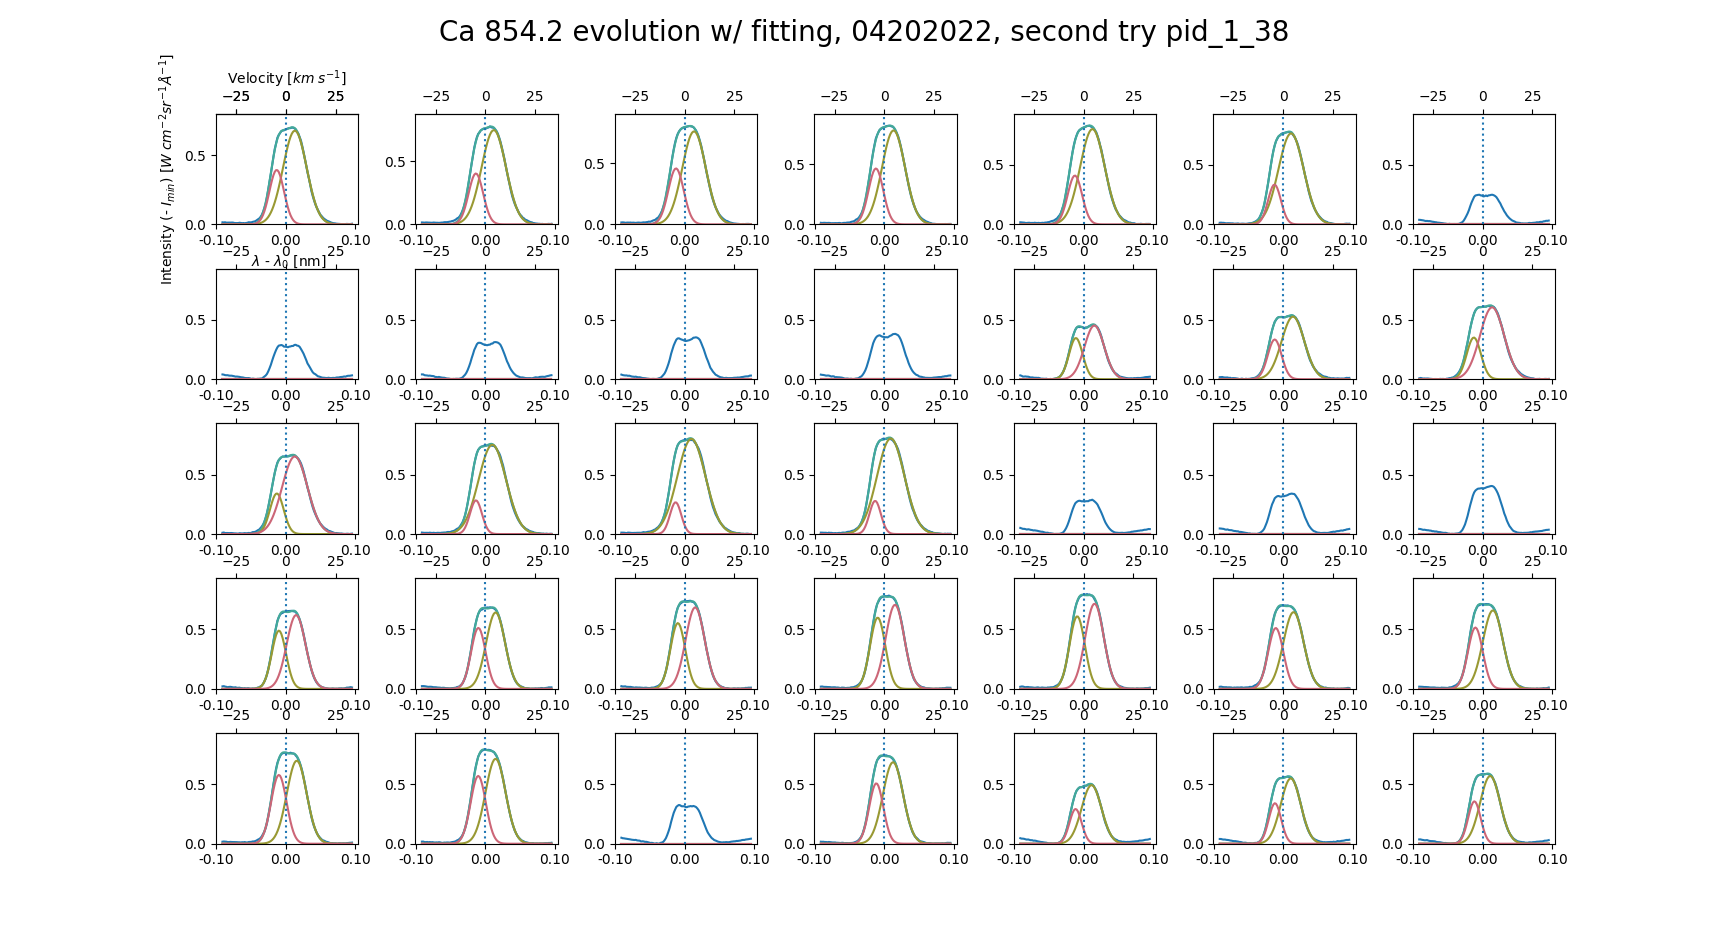
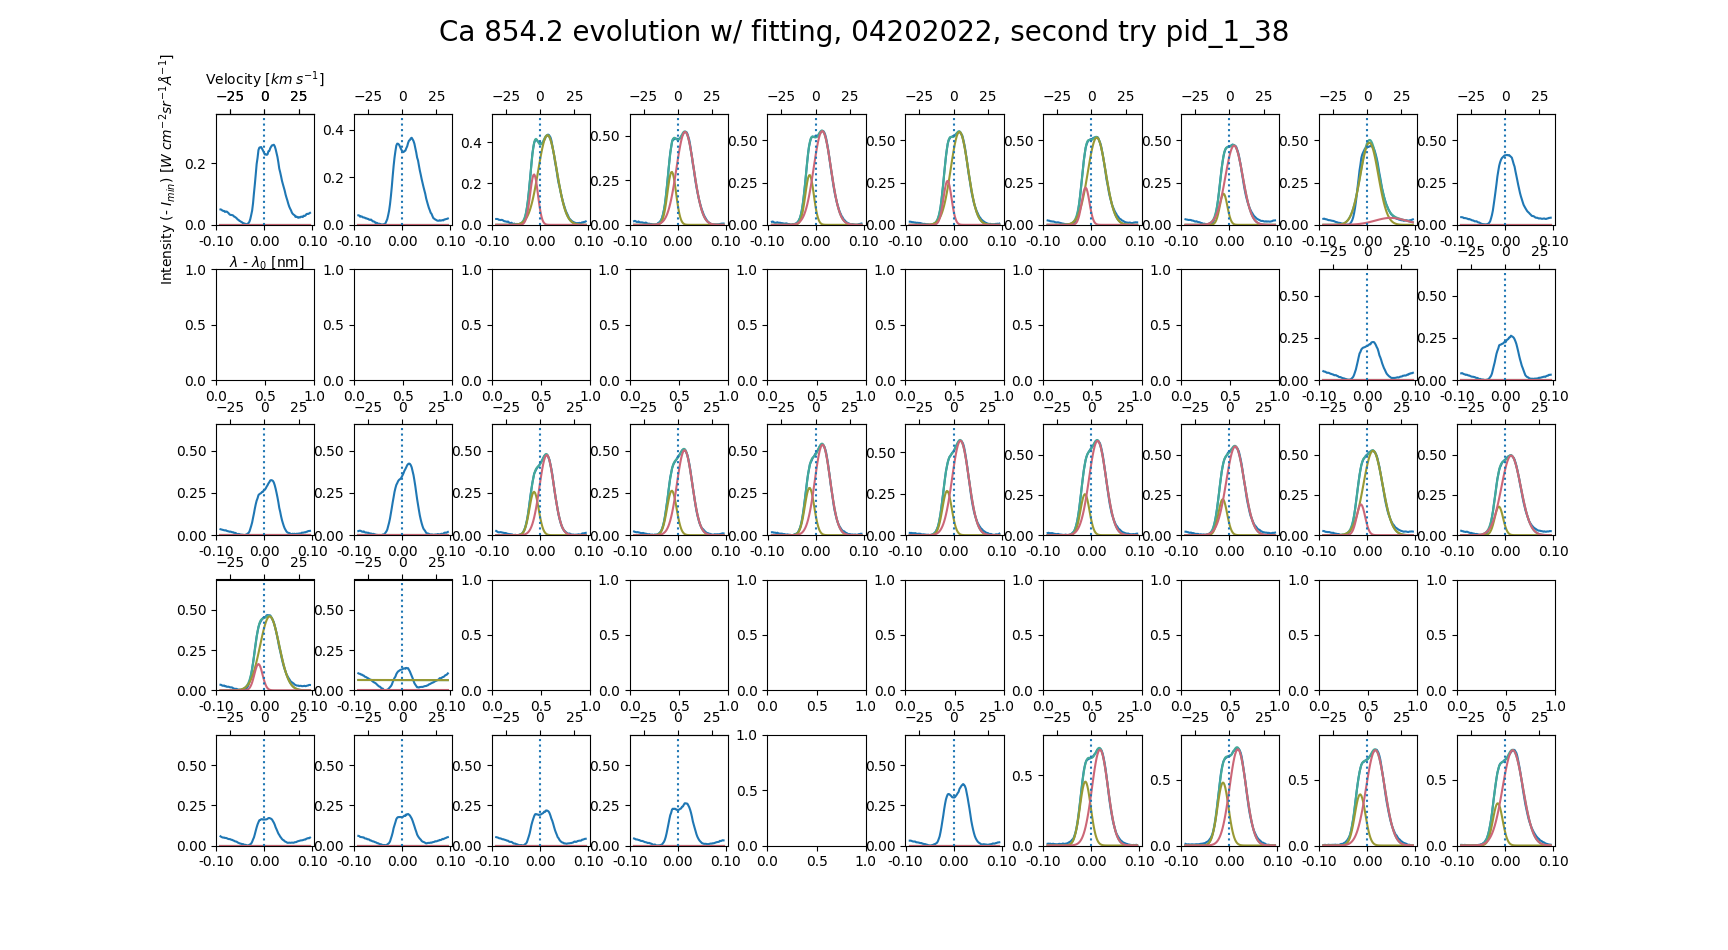
plotting routines and mdoeling for caii 8542 in pid_1_38

diff --git a/dkistpkg_ct.py b/dkistpkg_ct.py
@@ -829,7 +829,7 @@ def fittingroutines(bkgd_subtract_flaretime,dispersion_range,
     fits_2g = []
     fits_2gneg = []
     
-    
+    l=0
     for i in range(nimg):
         print(i)
         selwl = dispersion_range[line_low:line_high]
@@ -856,7 +856,7 @@ def fittingroutines(bkgd_subtract_flaretime,dispersion_range,
     return fits_1g, fits_2g, fits_2gneg
 
 def pltfitresults(bkgd_subtract_flaretime,dispersion_range,double_gaussian,
-                  gaussian,times_raster1,muted,
+                  gaussian,times,muted,
                   line_low,line_high,fits_1g,fits_2g,fits_2gneg,
                   pid='pid_1_84',
                   date = '08092022',line = 'Ca II H',nimg = 7,
@@ -906,7 +906,25 @@ def pltfitresults(bkgd_subtract_flaretime,dispersion_range,double_gaussian,
         fit1g = fits_1g[i][0]
         fit2g = fits_2g[i][0]
         #fit2gneg = fits_2gneg[i][0]
+        
+        if i > 0 and i % (nrow*ncol) == 0:
+            secaxx = ax.flatten()[0].secondary_xaxis('top', functions=(veltrans,wltrans))
+            secaxx.set_xlabel(r'Velocity $[km\; s^{-1}]$')
+            ax.flatten()[0].set_xlabel(r' $\lambda$ - $\lambda_0$ [nm]')
+            ax.flatten()[0].set_ylabel(r'Intensity (- $I_{min}$) $[W\; cm^{-2} sr^{-1} \AA^{-1}]$')
+
+
+            
+            #plt.subplots_adjust(wspace=0.4,hspace=1.0)
+            plt.tight_layout(pad = 4)
+            fig.savefig('/Users/coletamburri/Desktop/DKIST_analysis_package/'+\
+                        pid+'/fits'+date+note+'_endatstep_'+str(i-1)+'.png')
+            fig, ax = plt.subplots(nrow,ncol,figsize=(30,15))
+            fig.suptitle(line+' evolution w/ fitting, '+date+note,fontsize=20)
+            
+            
         if len(fit2g) == 6:
+            l = i % (nrow*ncol)
             gaussfity = gaussian(selwl,fit1g[0],fit1g[1],fit1g[2])
             gauss2fity = double_gaussian(selwl,fit2g[0],fit2g[1],fit2g[2],\
                                          fit2g[3],fit2g[4],fit2g[5])
@@ -916,18 +934,20 @@ def pltfitresults(bkgd_subtract_flaretime,dispersion_range,double_gaussian,
             #gauss2negfity = double_gaussian(selwl,fit2gneg[0],fit2gneg[1],\
                                             # fit2gneg[2],fit2gneg[3],fit2gneg[4],
                                             # fit2gneg[5])
-        
-            ax.flatten()[i].plot(selwlshift,sel,label='data')
+            
+
+            ax.flatten()[l].plot(selwlshift,sel,label='data')
             #ax.flatten()[i].plot(selwlshift,gaussfity,label='G1')
-            ax.flatten()[i].plot(selwlshift,gauss2fity,label='G2',color=muted[2])
-            ax.flatten()[i].plot(selwlshift,comp1fity,label='G2,C1',color=muted[4])
-            ax.flatten()[i].plot(selwlshift,comp2fity,label='G2,C2',color=muted[6])
+            ax.flatten()[l].plot(selwlshift,gauss2fity,label='G2',color=muted[2])
+            ax.flatten()[l].plot(selwlshift,comp1fity,label='G2,C1',color=muted[4])
+            ax.flatten()[l].plot(selwlshift,comp2fity,label='G2,C2',color=muted[6])
             #ax.flatten()[i].plot(selwl,gauss2negfity,label='Gauss2neg')
             #ax.flatten()[i].legend()
-            ax.flatten()[i].axis(ymin=0,ymax=maxprofile+lim)
-            ax.flatten()[i].axvline(0,linestyle='dotted')
-            secaxx = ax.flatten()[i].secondary_xaxis('top', functions=(veltrans,wltrans))
-            ax.flatten()[i].xaxis.set_major_formatter(FormatStrFormatter('%.2f'))  
+            ax.flatten()[l].axis(ymin=0,ymax=maxprofile+lim)
+            ax.flatten()[l].axvline(0,linestyle='dotted')
+            secaxx = ax.flatten()[l].secondary_xaxis('top', functions=(veltrans,wltrans))
+            ax.flatten()[l].xaxis.set_major_formatter(FormatStrFormatter('%.2f'))  
+            ax.flatten()[l].set_title(times[i])
             
     secaxx = ax.flatten()[0].secondary_xaxis('top', functions=(veltrans,wltrans))
     secaxx.set_xlabel(r'Velocity $[km\; s^{-1}]$')
@@ -936,11 +956,11 @@ def pltfitresults(bkgd_subtract_flaretime,dispersion_range,double_gaussian,
 
 
     
-    plt.subplots_adjust(wspace=0.4,hspace=0.4)
+    plt.tight_layout(pad = 4)
     plt.show()
     
     fig.savefig('/Users/coletamburri/Desktop/DKIST_analysis_package/'+\
-                pid+'/fits'+date+note+'.png')
+                pid+'/fits'+date+note+'_endatstep_'+str(i)+'.png')
     
     return None
 

diff --git a/pid_1_38_analysis.py b/pid_1_38_analysis.py
@@ -49,7 +49,7 @@ dir_list2 = DKISTanalysis.pathdef(path,folder1)
 lon = -27.69 #degrees
 lat = 18.29 #degrees
 
-wl = 854.2 # central wavelength, Ca II H, in nm
+wl = 854.209 # central wavelength, Ca II H, in nm
 
 # spatial coordinates
 hpc1_arcsec, hpc2_arcsec, x_center, y_center, z, rho, mu, \
